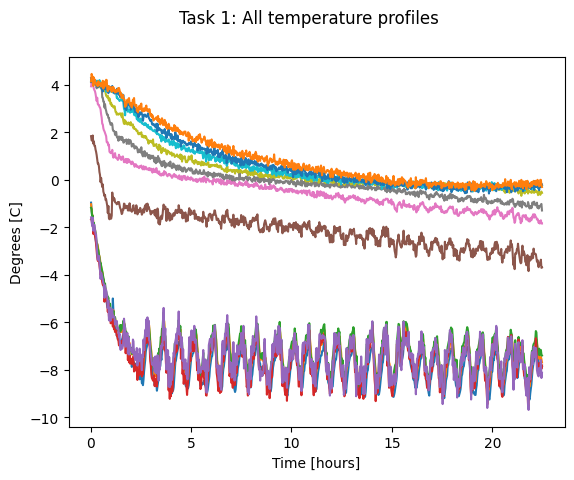
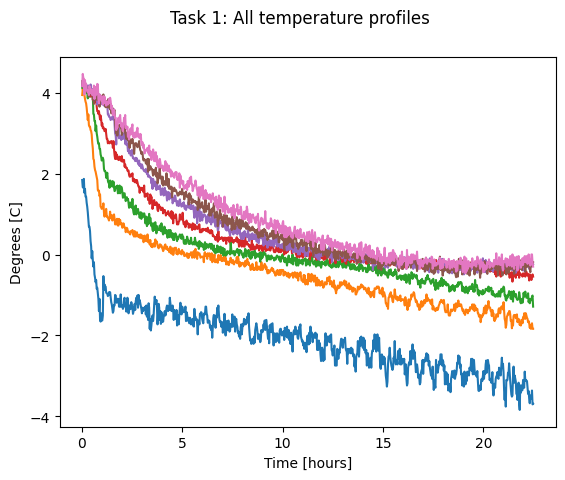
task 4 ok ish

diff --git a/plot_task4.py b/plot_task4.py
@@ -1,0 +1,80 @@
+from process_data import *
+
+# Find the breakpoints for interval 5 to 0 degC
+break_temperatures = [0, 1, -1]
+
+breakpoints = [[-1]*len(stringTemperatures) for i in break_temperatures]
+
+for i, _ in enumerate(stringTemperatures):
+    for j, break_temperature in enumerate(break_temperatures):
+        for k, _ in enumerate(ids):
+            if stringTemperatures[i][k] < break_temperature:
+                breakpoints[j][i] = k
+                break
+        if breakpoints[j][i] == -1:
+            breakpoints[j][i] = k
+
+print(breakpoints)
+
+# Plot 1
+output_plot_file = 'plots/task4_plot1.png'
+plot_title = "Task 4: Above freezing temperature"
+
+fig = plt.figure()
+
+p6, = plt.plot(hours[0:breakpoints[0][6]], stringTemperatures[6][0:breakpoints[0][6]])
+p7, = plt.plot(hours[0:breakpoints[0][7]], stringTemperatures[7][0:breakpoints[0][7]])
+p8, = plt.plot(hours[0:breakpoints[0][8]], stringTemperatures[8][0:breakpoints[0][8]])
+p9, = plt.plot(hours[0:breakpoints[0][9]], stringTemperatures[9][0:breakpoints[0][9]])
+p10, = plt.plot(hours[0:breakpoints[0][10]], stringTemperatures[10][0:breakpoints[0][10]])
+p11, = plt.plot(hours[0:breakpoints[0][11]], stringTemperatures[11][0:breakpoints[0][11]])
+
+fig.suptitle(plot_title)
+
+plt.ylabel('Degrees [C]')
+plt.xlabel('Time [hours]')
+
+plt.savefig(output_plot_file, bbox_inches='tight')
+
+
+# Plot 2
+output_plot_file = 'plots/task4_plot2.png'
+plot_title = "Task 4: Around freezing temperature"
+
+fig = plt.figure()
+
+p6, = plt.plot(hours[breakpoints[1][6]:breakpoints[2][6]], stringTemperatures[6][breakpoints[1][6]:breakpoints[2][6]])
+p7, = plt.plot(hours[breakpoints[1][7]:breakpoints[2][7]], stringTemperatures[7][breakpoints[1][7]:breakpoints[2][7]])
+p8, = plt.plot(hours[breakpoints[1][8]:breakpoints[2][8]], stringTemperatures[8][breakpoints[1][8]:breakpoints[2][8]])
+p9, = plt.plot(hours[breakpoints[1][9]:breakpoints[2][9]], stringTemperatures[9][breakpoints[1][9]:breakpoints[2][9]])
+p10, = plt.plot(hours[breakpoints[1][10]:breakpoints[2][10]], stringTemperatures[10][breakpoints[1][10]:breakpoints[2][10]])
+p11, = plt.plot(hours[breakpoints[1][11]:breakpoints[2][11]], stringTemperatures[11][breakpoints[1][11]:breakpoints[2][11]])
+
+fig.suptitle(plot_title)
+
+plt.ylabel('Degrees [C]')
+plt.xlabel('Time [hours]')
+
+plt.savefig(output_plot_file, bbox_inches='tight')
+
+
+
+# Plot 3
+output_plot_file = 'plots/task4_plot3.png'
+plot_title = "Task 4: Below freezing temperature"
+
+fig = plt.figure()
+
+p6, = plt.plot(hours[breakpoints[0][6]::], stringTemperatures[6][breakpoints[0][6]::])
+p7, = plt.plot(hours[breakpoints[0][7]::], stringTemperatures[7][breakpoints[0][7]::])
+p8, = plt.plot(hours[breakpoints[0][8]::], stringTemperatures[8][breakpoints[0][8]::])
+p9, = plt.plot(hours[breakpoints[0][9]::], stringTemperatures[9][breakpoints[0][9]::])
+p10, = plt.plot(hours[breakpoints[0][10]::], stringTemperatures[10][breakpoints[0][10]::])
+p11, = plt.plot(hours[breakpoints[0][11]::], stringTemperatures[11][breakpoints[0][11]::])
+
+fig.suptitle(plot_title)
+
+plt.ylabel('Degrees [C]')
+plt.xlabel('Time [hours]')
+
+plt.savefig(output_plot_file, bbox_inches='tight')

diff --git a/plot_task2.py b/plot_task2.py
@@ -1,8 +1,8 @@
 from process_data import *
 
 # Settings
-output_plot_file = 'plots/task1_all_temperature_profiles.png'
-plot_title = "Task 1: All temperature profiles"
+output_plot_file = 'plots/task2_all_temperature_profiles.png'
+plot_title = "Task 2: All temperature profiles"
 
 # Plot
 fig = plt.figure()
